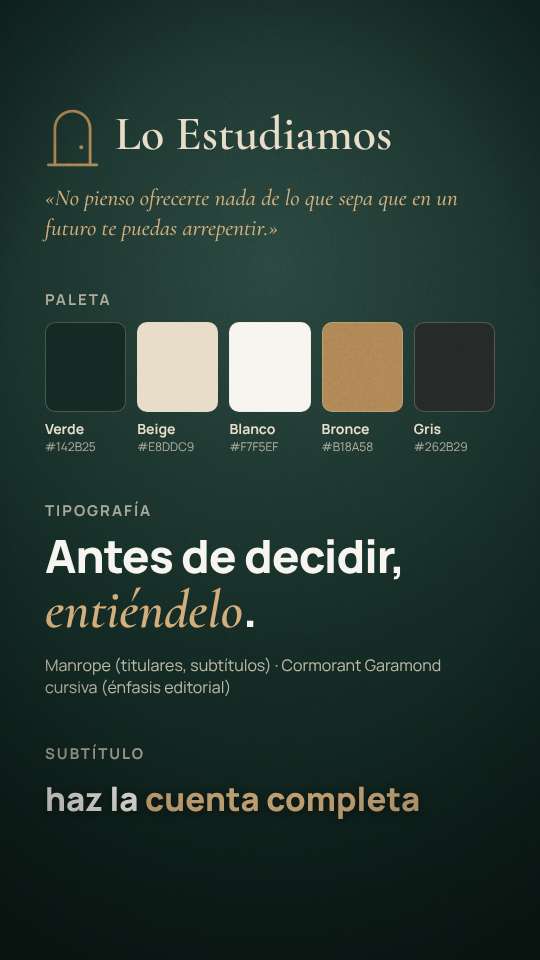
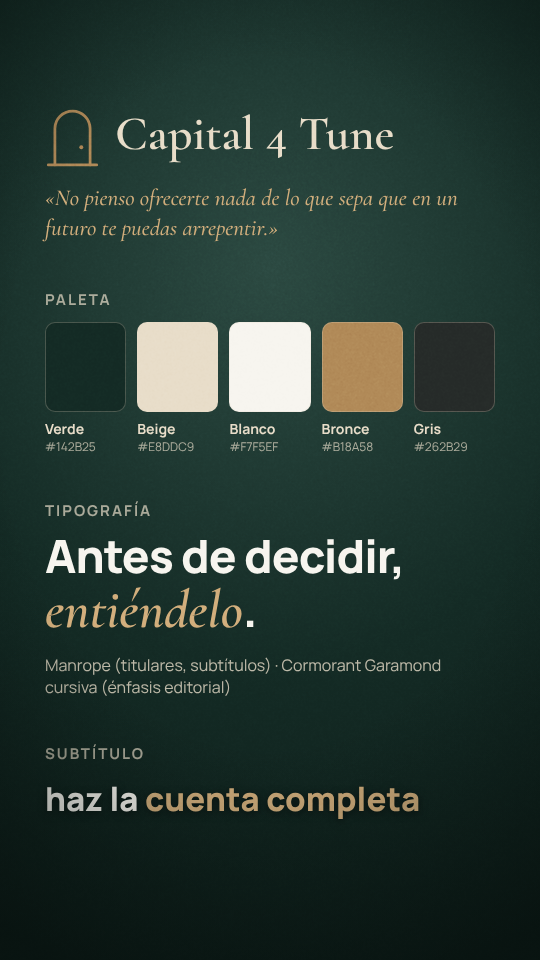
Marca Capital 4 Tune, foto de perfil y publicación diaria en Instagram
- Marca en vídeos: Capital 4 Tune (marca de agua y firma). Pilotos re-renderizados.
- Foto de perfil (3 variantes) y biografía en docs/marca/instagram/.
- scripts/publicar.mjs: cola de publicación, pie y vídeo en la rama medios; registro en publicaciones.json.
- Skill reel-diario: publicar primero (solo Instagram @capital4thunel) y producir después.
- producir.mjs conserva fecha y orden del registro.

Claude-Session: https://claude.ai/code/session_01WcPLyKzwti7nFN2AWXN25U

Changed region(s): [[0.2074, 0.125, 0.7407, 0.1875]]

diff --git a/motor/src/FotoPerfil.tsx b/motor/src/FotoPerfil.tsx
@@ -1,0 +1,48 @@
+import React from "react";
+import { AbsoluteFill, staticFile } from "remotion";
+import { C, F } from "./marca/tokens";
+
+/**
+ * Foto de perfil de Instagram (1080×1080). Instagram la recorta en círculo:
+ * todo lo importante queda dentro del 70 % central.
+ * Variantes: "arco" (símbolo + 4), "monograma" (C4T en anillo), "minimal" (solo símbolo).
+ */
+export const FotoPerfil: React.FC<{ variante: "arco" | "monograma" | "minimal" }> = ({ variante }) => (
+  <AbsoluteFill style={{ background: `radial-gradient(70% 70% at 50% 42%, ${C.verdeClaro} 0%, ${C.verde} 58%, #0c1a16 100%)` }}>
+    <AbsoluteFill style={{ backgroundImage: `url(${staticFile("texturas/grano.png")})`, mixBlendMode: "overlay", opacity: 0.1 }} />
+    <AbsoluteFill style={{ justifyContent: "center", alignItems: "center" }}>
+      {variante === "monograma" ? (
+        <div style={{ width: 640, height: 640, borderRadius: "50%", border: `10px solid ${C.bronce}`, display: "flex", flexDirection: "column", justifyContent: "center", alignItems: "center" }}>
+          <div style={{ fontFamily: F.serif, fontWeight: 600, fontSize: 300, color: C.beige, letterSpacing: -6, lineHeight: 1 }}>
+            C<span style={{ fontStyle: "italic", color: C.bronceClaro }}>4</span>T
+          </div>
+        </div>
+      ) : (
+        <svg width={620} height={720} viewBox="0 0 100 116">
+          <defs>
+            <linearGradient id="bronceG" x1="0" y1="0" x2="1" y2="1">
+              <stop offset="0" stopColor="#e2c08e" />
+              <stop offset="0.55" stopColor={C.bronce} />
+              <stop offset="1" stopColor="#8a6a40" />
+            </linearGradient>
+            <radialGradient id="luzPuerta" cx="0.5" cy="0.75" r="0.6">
+              <stop offset="0" stopColor="#f3d9a4" stopOpacity="0.35" />
+              <stop offset="1" stopColor="#f3d9a4" stopOpacity="0" />
+            </radialGradient>
+          </defs>
+          {/* luz cálida dentro del umbral */}
+          <path d="M20 106 V48 A30 30 0 0 1 80 48 V106 Z" fill="url(#luzPuerta)" />
+          <path d="M20 106 V48 A30 30 0 0 1 80 48 V106" fill="none" stroke="url(#bronceG)" strokeWidth={5.5} strokeLinecap="round" />
+          <line x1="8" y1="106" x2="92" y2="106" stroke={C.bronce} strokeWidth={5.5} strokeLinecap="round" />
+          {variante === "arco" ? (
+            <text x="50" y="92" textAnchor="middle" fontFamily={F.serif} fontStyle="italic" fontWeight={600} fontSize={58} fill={C.beige}>
+              4
+            </text>
+          ) : (
+            <circle cx="66" cy="80" r="3.6" fill="url(#bronceG)" />
+          )}
+        </svg>
+      )}
+    </AbsoluteFill>
+  </AbsoluteFill>
+);

diff --git a/motor/src/Root.tsx b/motor/src/Root.tsx
@@ -4,6 +4,7 @@ import { VIDEO } from "./marca/tokens";
 import { Video, duracionFrames } from "./Video";
 import { VIDEOS } from "./generado";
 import { Muestrario } from "./Muestrario";
+import { FotoPerfil } from "./FotoPerfil";
 
 /** Una composición por cada vídeo preparado con `npm run producir -- <carpeta>` */
 export const Root: React.FC = () => (
@@ -24,6 +25,7 @@ export const Root: React.FC = () => (
     </Folder>
     <Folder name="identidad">
       <Composition id="Muestrario" component={Muestrario} durationInFrames={90} fps={VIDEO.fps} width={VIDEO.ancho} height={VIDEO.alto} />
+      <Composition id="FotoPerfil" component={FotoPerfil} defaultProps={{ variante: "arco" as const }} durationInFrames={1} fps={VIDEO.fps} width={1080} height={1080} />
     </Folder>
   </>
 );

diff --git a/motor/src/marca/tokens.ts b/motor/src/marca/tokens.ts
@@ -9,7 +9,7 @@ import "@fontsource/cormorant-garamond/600-italic.css";
 import { continueRender, delayRender } from "remotion";
 
 export const MARCA = {
-  nombre: "Lo Estudiamos", // provisional hasta elegir nombre definitivo
+  nombre: "Capital 4 Tune", // canal de Instagram @capital4thunel
   lema: "No pienso ofrecerte nada de lo que sepa que en un futuro te puedas arrepentir.",
   firma: "Lo estudiamos juntos",
 };

diff --git a/.claude/skills/reel-diario/SKILL.md b/.claude/skills/reel-diario/SKILL.md
@@ -4,6 +4,8 @@ description: Producción diaria automática de un reel completo (elegir tema, ve
 ---
 # Reel diario (sin supervisión)
 
+Orden de cada día: **0 entorno → 5 bis publicar el siguiente de la cola → 1–6 producir el de mañana**.
+
 Trabajas solo: nadie revisa antes de que termines. Sé conservador: si algo no cumple las normas, **no lo entregues como listo**.
 Normas: `CLAUDE.md`, `docs/directivas/`, `docs/automatizacion.md`. Fecha de hoy = fecha del sistema (zona Europe/Madrid).
 
@@ -62,6 +64,23 @@ anota «falta voz» en `contenido/diario.md` y notifica al propietario cómo act
 3. Si tocas código del motor: `npx tsc --noEmit` y no rompas escenas existentes (cambios compatibles, props opcionales).
 4. `npm run producir -- ../contenido/videos/<ID> --render` → todo ✓ en el control de calidad.
 
+## 5 bis. Publicar en Instagram (antes de producir, cada día)
+Cuenta: **@capital4thunel** (Composio, toolkit `instagram`, alias `capital-4-tune`, cuenta `instagram_amazed-arear`).
+Publicación directa autorizada por el propietario. **Solo Instagram.** Exactamente 1 publicación al día:
+1. Si `contenido/publicaciones.json` ya tiene una publicación con la fecha de hoy, no publiques otra.
+2. `cd motor && node scripts/publicar.mjs siguiente` → `{ id, video_url, caption }` (el más antiguo listo y no publicado;
+   si `id` es null, no hay cola: publica el que produzcas hoy en cuanto pase la auditoría, repitiendo este paso).
+3. Comprueba que la URL responde: `curl -sI "<video_url>"` → 200.
+4. `INSTAGRAM_POST_IG_USER_MEDIA` con `ig_user_id: "me"`, `video_url`, `media_type: "REELS"`, `share_to_feed: true`,
+   `caption` (texto tal cual, con `#` normales) y `thumb_offset: 1500` → `creation_id`.
+5. `INSTAGRAM_POST_IG_USER_MEDIA_PUBLISH` con `ig_user_id: "me"`, `creation_id`, `max_wait_seconds: 300`.
+   Si falla por 9007/«not available», espera y reintenta el **publish** con el mismo `creation_id` (nunca crees otro
+   contenedor si el anterior pudo publicarse: comprueba antes con `INSTAGRAM_GET_IG_USER_MEDIA`).
+6. `INSTAGRAM_GET_IG_MEDIA` (campos `id,permalink,caption`) → comprueba que el pie se ve bien (sin `%23`).
+7. `node scripts/publicar.mjs registrar <ID> <ig_media_id> <permalink>`; commit y push.
+8. Envía al propietario con `SendUserFile` (status `proactive`) el MP4 publicado y, en el mensaje, el enlace y el
+   **pie completo** (contenido de `PIE.txt`).
+
 ## 6. Auditoría y entrega
 - Auditoría honesta en `editorial.yaml → auditoria` (10 × 10). Si < 85: mejora y vuelve a renderizar (máx. 2 veces).
   Si sigue < 85, entrégalo marcado «NO PUBLICAR: revisar».
@@ -69,9 +88,8 @@ anota «falta voz» en `contenido/diario.md` y notifica al propietario cómo act
 - Marca el tema `producido` en el banco con `video: <ID>` y `fecha`. Añade una línea a `contenido/diario.md`
   (fecha, ID, tema, nota, créditos usados y restantes, incidencias).
 - Commit en español en `main` y `git push origin main`.
-- Envía al propietario con `SendUserFile` (status `proactive`) el MP4 de `salida/<ID>.mp4` y, en el mensaje,
-  el texto listo para copiar: portada, descripción, hashtags y hora recomendada de publicación.
-- **No publiques en redes**: la publicación la hace el propietario (o una integración autorizada en el futuro).
+- El vídeo producido hoy queda en la cola de publicación: se envía al propietario (MP4 + pie) el día que se publique
+  (paso 5 bis). Si hoy no había cola, se publica hoy mismo en cuanto pase la auditoría.
 
 ## Si algo falla
 No ocultes errores. Commitea lo que sea válido, deja constancia en `contenido/diario.md` y notifica qué falló y qué falta.

diff --git a/docs/automatizacion.md b/docs/automatizacion.md
@@ -15,11 +15,13 @@ Una tarea programada despierta cada día la sesión de Claude del proyecto, que 
 7. Auditoría ≥ 85/100 o se marca «NO PUBLICAR: revisar».
 8. Commit + push en `main`, registro en `contenido/diario.md` y envío del MP4 con el texto de publicación.
 
-## Lo que NO hace (y por qué)
-- **No publica en Instagram, TikTok ni YouTube.** Composio tiene Instagram y YouTube conectados, pero publicar en
-  nombre de la marca es una acción pública que el propietario debe autorizar expresamente (y TikTok no está conectado). Opciones futuras: Instagram Graph API
-  (cuenta profesional + app de Meta), TikTok Content Posting API (requiere revisión de la app) o YouTube Data API,
-  o un conector de terceros. Ninguna está implementada.
+## Publicación
+- **Solo Instagram**, cuenta **@capital4thunel** (Composio), publicación directa autorizada por el propietario.
+- Una publicación al día, a las 12:41 (Madrid). Se publica el vídeo más antiguo listo (auditoría ≥ 85) y aún no publicado;
+  así siempre hay ~1 día de margen por si una producción falla.
+- El MP4 se sirve desde la rama `medios` del repositorio (público) para que Instagram lo descargue; esa rama se reescribe
+  en cada publicación y solo contiene el vídeo pendiente.
+- Tras publicar, el propietario recibe el reel y su pie completo. Registro en `contenido/publicaciones.json`.
 - No gasta dinero: si se agota el cupo mensual de ElevenLabs, deja el guion listo y avisa.
 
 ## Voz en la ejecución diaria
@@ -35,8 +37,8 @@ guardada como secreto del entorno (`herramientas/elevenlabs.py`). Si ninguna fun
 el sistema lo comprueba cada día antes de generar.
 
 ## Hora
-La tarea se lanza a las 05:37 (hora de Madrid) para que el reel esté listo por la mañana.
-Hora recomendada de publicación: entre 13:00 y 14:30 o entre 20:00 y 22:00 (ajustar con métricas reales).
+La tarea se lanza a las 12:41 (hora de Madrid): publica primero y después produce el vídeo del día siguiente.
+Ajustar la hora con métricas reales (franjas habituales: 13:00–14:30 y 20:00–22:00).
 
 ## Supervisión
 - `contenido/diario.md`: una línea por día (tema, nota, créditos, incidencias).

diff --git a/docs/marca/instagram/perfil.md b/docs/marca/instagram/perfil.md
@@ -1,0 +1,41 @@
+# Perfil de Instagram · @capital4thunel
+
+La API de Instagram no permite cambiar la foto ni la biografía: se configuran a mano desde la app
+(Editar perfil).
+
+## Foto de perfil
+`perfil-arco.png` (recomendada): la puerta = decidir es cruzar un umbral; el 4 iluminado dentro = Capital 4 Tune.
+Alternativas: `perfil-monograma.png` (C4T) y `perfil-minimal.png` (solo la puerta).
+
+## Nombre (campo «Nombre», máx. 30 caracteres; también cuenta para las búsquedas)
+**Capital 4 Tune | Casa y dinero** (30 caracteres)
+
+## Biografía (máx. 150 caracteres)
+**Opción A (recomendada, 138 caracteres)**
+```
+Casa, dinero y negocios explicados sin humo 🏠
+Antes de decidir, lo estudiamos juntos.
+📍 Roquetas · Aguadulce · Almería
+👇 Escríbeme ESTUDIO
+```
+**Opción B: con el lema (138)**
+```
+No te ofreceré nada de lo que te puedas arrepentir.
+Vivienda · dinero · negocios, sin vender humo
+📍 Roquetas · Almería
+👇 Escríbeme ESTUDIO
+```
+**Opción C: centrada en la frecuencia (125)**
+```
+Antes de comprar, vender o emprender: entiéndelo 🔑
+Un reel al día para decidir mejor
+📍 Roquetas · Almería
+👇 Escríbeme ESTUDIO
+```
+
+## Ajustes recomendados
+- Cuenta profesional (Creador o Empresa); categoría «Agente inmobiliario» o «Servicios financieros» (la que
+  corresponda a la actividad real; no usar categorías que impliquen una habilitación que no se tenga).
+- Botón de contacto: mensaje directo. Respuesta rápida para la palabra «ESTUDIO»:
+  «¡Hola! Cuéntame en dos líneas tu situación (comprar, vender, alquilar o un local) y la zona, y lo estudiamos juntos.»
+- Destacadas (portadas en verde y bronce): Comprar · Vender · Locales · Dinero · Quién soy.

diff --git a/docs/decisiones.md b/docs/decisiones.md
@@ -14,3 +14,6 @@ Decisiones del propietario y técnicas que matizan las directivas. La más recie
 | 2026-11-20 | Música original generada por código (`herramientas/musica.py`) y efectos propios. | Directiva 2.0 §5: licencia propia, coste cero. |
 | 2026-11-20 | Remotion: licencia gratuita válida mientras el equipo sea de 3 personas o menos. Si crece, revisar. | Licencia de Remotion. |
 | 2026-11-20 | Piloto 1: se regeneró la voz para no decir que IBI y seguro se pagan «cada mes» (suelen ser anuales). | Exactitud del contenido. |
+| 2026-11-20 | **Marca: Capital 4 Tune** (Instagram @capital4thunel). «Lo estudiamos juntos» queda como lema. | Propietario. |
+| 2026-11-20 | **Publicación directa diaria solo en Instagram** (@capital4thunel) vía Composio; al publicar se envía al propietario el reel y su pie. | Propietario. |
+| 2026-11-20 | Voz vía Composio (cuenta ElevenLabs «voces-nico»). Tarea programada en la sesión con conectores. | Las sesiones nuevas no heredan conectores. |

diff --git a/CLAUDE.md b/CLAUDE.md
@@ -1,4 +1,4 @@
-# CLAUDE.md — Contenido Inmobiliario (marca provisional: «Lo Estudiamos»)
+# CLAUDE.md — Contenido Inmobiliario · marca Capital 4 Tune (Instagram @capital4thunel)
 
 Motor de producción audiovisual para una marca personal **faceless** de asesoramiento inmobiliario,
 educación financiera y decisiones inteligentes (Roquetas de Mar, Aguadulce, Almería y resto de España).
@@ -65,4 +65,4 @@ salida/                    MP4 renderizados (no se versiona)
 
 ## Producción diaria automática
 Un reel al día mediante una tarea programada que sigue `.claude/skills/reel-diario/SKILL.md` (ver `docs/automatizacion.md`).
-Temas en `contenido/banco-de-temas.yaml`; registro en `contenido/diario.md`. Nunca publica en redes: entrega el MP4 y el texto.
+Temas en `contenido/banco-de-temas.yaml`; registro en `contenido/diario.md`. Publica 1 reel al día solo en Instagram (@capital4thunel, vía Composio) y envía al propietario el reel y su pie.
